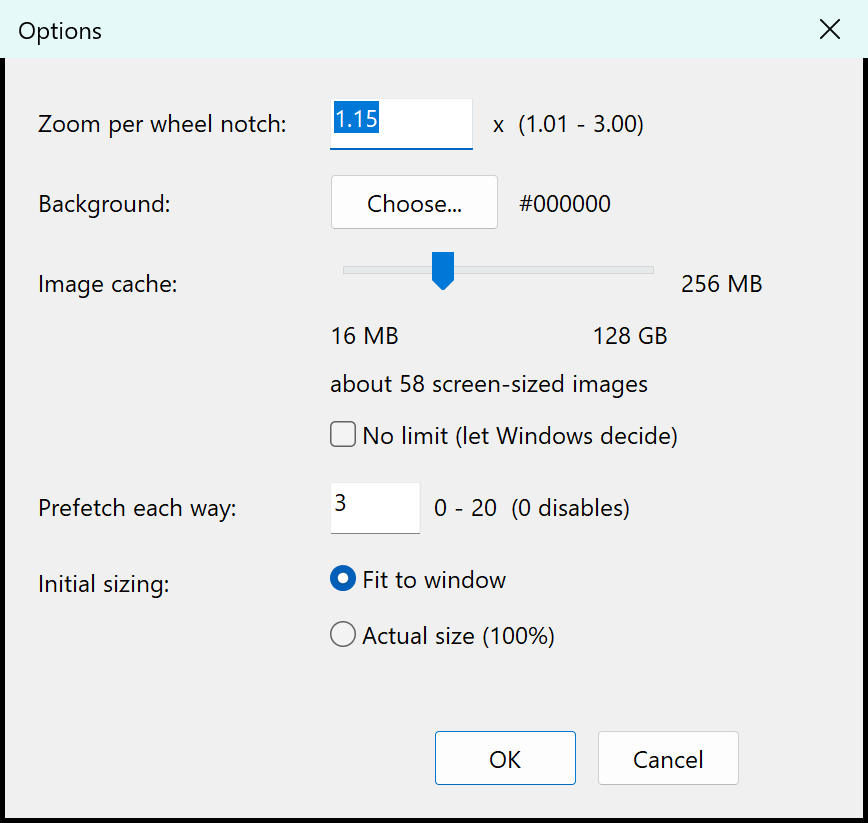
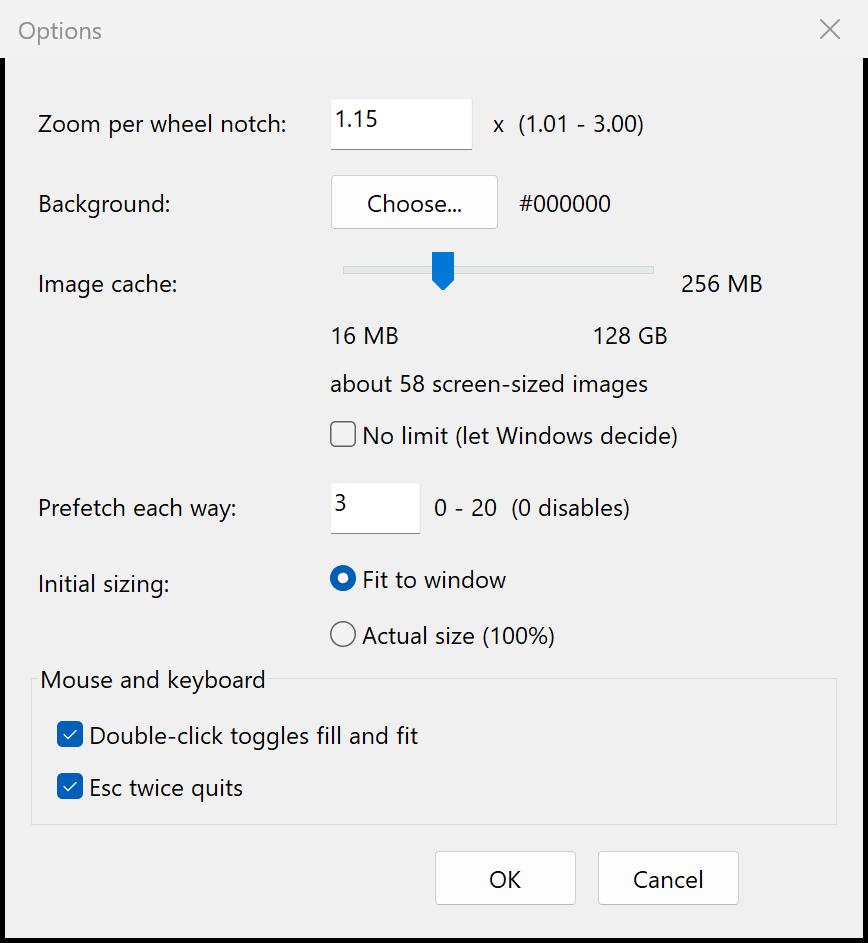
Document fill mode and double-Esc quit
Adds both gestures to the key table, explains the edge rules for fill
mode, lists the two new settings keys, and refreshes the Options
screenshot to show the new checkboxes.

diff --git a/README.md b/README.md
@@ -24,7 +24,7 @@ album.
 
 ## Download and run
 
-- Take `PlainView-1.0.0-win64.zip` from the [releases page](https://github.com/lian9998/PlainView/releases).
+- Take the latest `PlainView-*-win64.zip` from the [releases page](https://github.com/lian9998/PlainView/releases).
 - Unpack it anywhere — a folder, a USB stick, `C:\Tools\PlainView`. There is no installer.
 - Run `PlainView.exe`.
 
@@ -45,6 +45,9 @@ downloaded.
 | Next / previous image | `→` / `←` — natural filename order (`image2` before `image10`), wrapping at the ends |
 | Zoom | Mouse wheel, around the cursor; 1.15× per notch by default |
 | Pan | Left-button drag |
+| Fill ↔ fit | Double-click: cover the window with the image, or show all of it |
+| Scroll (fill mode) | Arrow keys move by two-thirds of a view; `←`/`→` at the edge change image, `↑`/`↓` only scroll |
+| Quit | `Esc` `Esc` — two presses within 400 ms |
 | Menu bar | Hidden by default. `Alt` shows it, `Alt` again hides it |
 | Options | `Alt`, then `File → Options…` |
 
@@ -52,6 +55,13 @@ downloaded.
 PlainView.exe                      :: empty black window; open with Ctrl+O or drag & drop
 PlainView.exe "D:\photos\a.jpg"    :: open that file immediately
 ```
+
+In **fill** mode the image covers the window (edges are cropped) and the arrow keys
+scroll it by two-thirds of a view. `←` and `→` only leave the current image once the
+view is already at that edge, so paging through a folder still works; `↑` and `↓`
+never change image. Double-clicking again returns to **fit**, and a wheel zoom leaves
+fill mode for free zooming. Both the double-click gesture and double-`Esc` can be
+switched off in Options, together with the other optional input behaviours.
 
 ## What it does
 
@@ -62,6 +72,7 @@ PlainView.exe "D:\photos\a.jpg"    :: open that file immediately
 | Rendering | Direct2D HWND render target (GPU, with the platform's software fallback) |
 | First frame | The decode is requested before the Direct2D device is created, so GPU start-up overlaps it |
 | Fit | Fits the window on open, keeps the aspect ratio, re-fits on resize until you zoom |
+| Fill | Double-click covers the window; the arrow keys scroll by two-thirds of a view |
 | Zoom / pan | Wheel around the cursor; drag to pan; exact 1:1 once zoomed in |
 | EXIF | All eight orientation values applied during decode |
 | Colour | Embedded ICC profiles applied; an sRGB profile is recognised as the identity and skipped |
@@ -241,7 +252,9 @@ powershell -ExecutionPolicy Bypass -File tools\bench.ps1 -Runs 5 `
   "cacheBudgetMB": 256,
   "prefetchDepth": 3,
   "backgroundColor": "#000000",
-  "initialSizing": "fit"
+  "initialSizing": "fit",
+  "doubleClickFill": true,
+  "doubleEscQuits": true
 }
 ```
 
@@ -251,6 +264,8 @@ powershell -ExecutionPolicy Bypass -File tools\bench.ps1 -Runs 5 `
 - `backgroundColor` — `#RRGGBB`, opaque. An old `#AARRGGBB` value is still read,
   with the alpha byte ignored; backgrounds cannot be see-through.
 - `initialSizing` — `fit` or `actual` (100%).
+- `doubleClickFill` — double-click toggles fill (cover) and fit (contain).
+- `doubleEscQuits` — two `Esc` presses within 400 ms quit.
 
 Missing or malformed members keep their defaults; an unreadable file is ignored.
 
